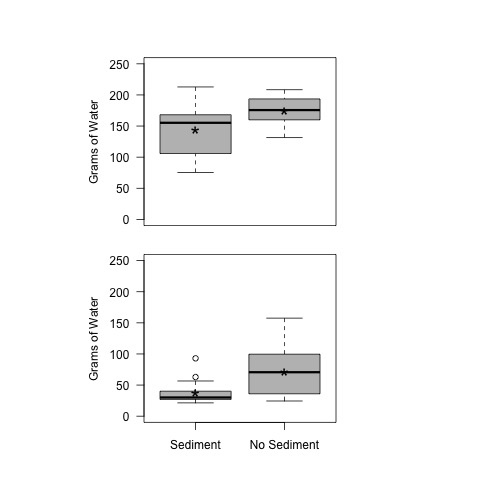
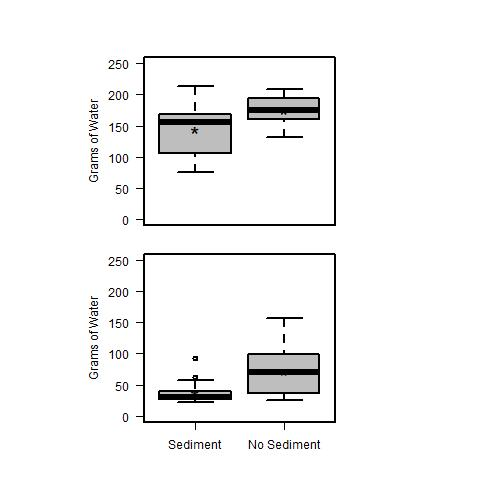
Started toughness figures for SFS talk

diff --git a/analysis/toughness_analysis.md b/analysis/toughness_analysis.md
@@ -7,6 +7,7 @@
 ## Modified
 
 * 25 April 2019 - KF - completed the analysis based on the diff between the top and sediment
+* 25 April 2019 - KF - began coding figure of toughness difference
 
 ## Authors
 
@@ -138,9 +139,13 @@ Three replicate leaves were randomly selected from the top and sediments from ea
 ##########################
     
 ## Plot of Treatment Effect on Difference between TOP and BOTTOM
-    
-    plot(mean.tot.mass2.diff ~ treat, data = diff.mean.tough, main = "Week 2")
-    plot(mean.tot.mass14.diff ~ treat, data = diff.mean.tough, main = "Week 14")
+    par(las = 1, mfcol = c(2, 1), cex = 1, lwd = 2)
+    par(mar = c(2, 10, 4, 10))
+    plot(mean.tot.mass2.diff ~ treat, data = diff.mean.tough, xlab = " ", ylab = "Toughness Difference", cex.lab = 1.5, cex.axis = 1.2, ylim = c(-50, 150))
+    abline(h = 0)
+    par(mar = c(4, 10, 2, 10))
+    plot(mean.tot.mass14.diff ~ treat, data = diff.mean.tough, xlab = " ", ylab = "Toughness Difference", cex.lab = 1.5, cex.axis = 1.2, ylim = c(-50, 150))
+    abline(h = 0)
     
 #### Plot of location effect
   
